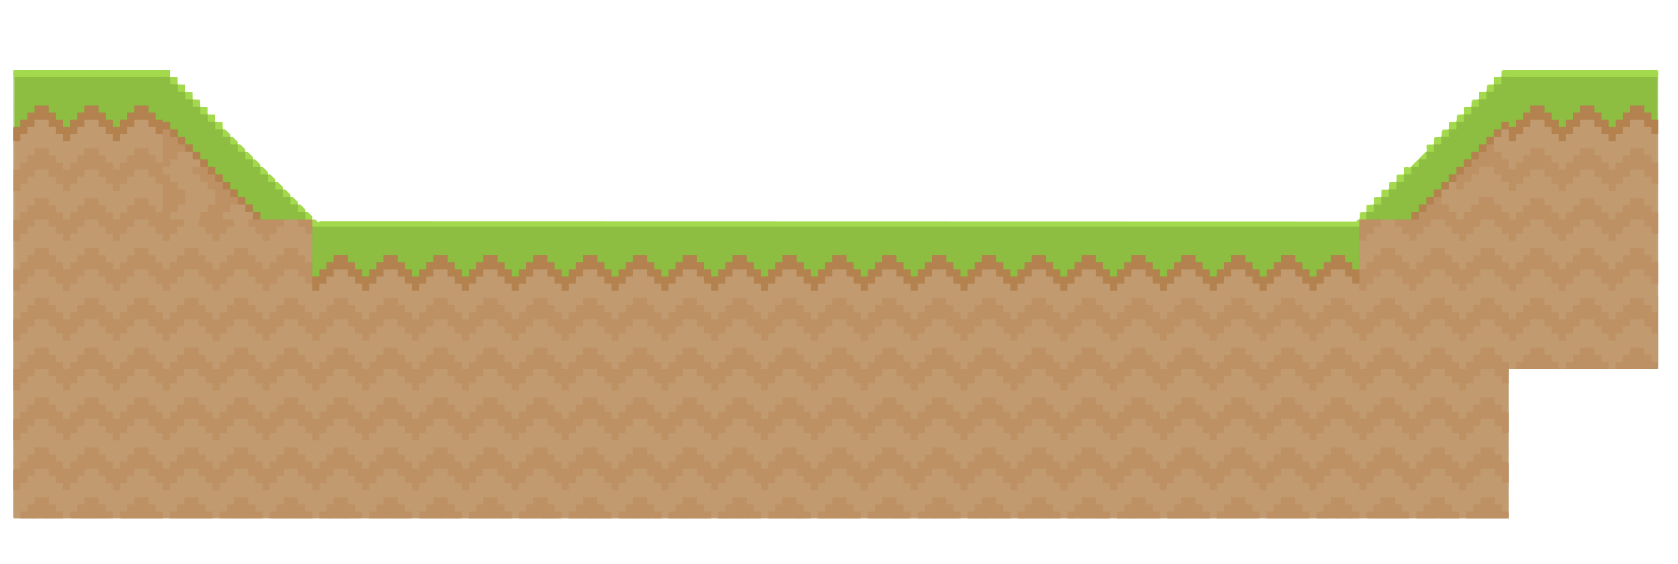
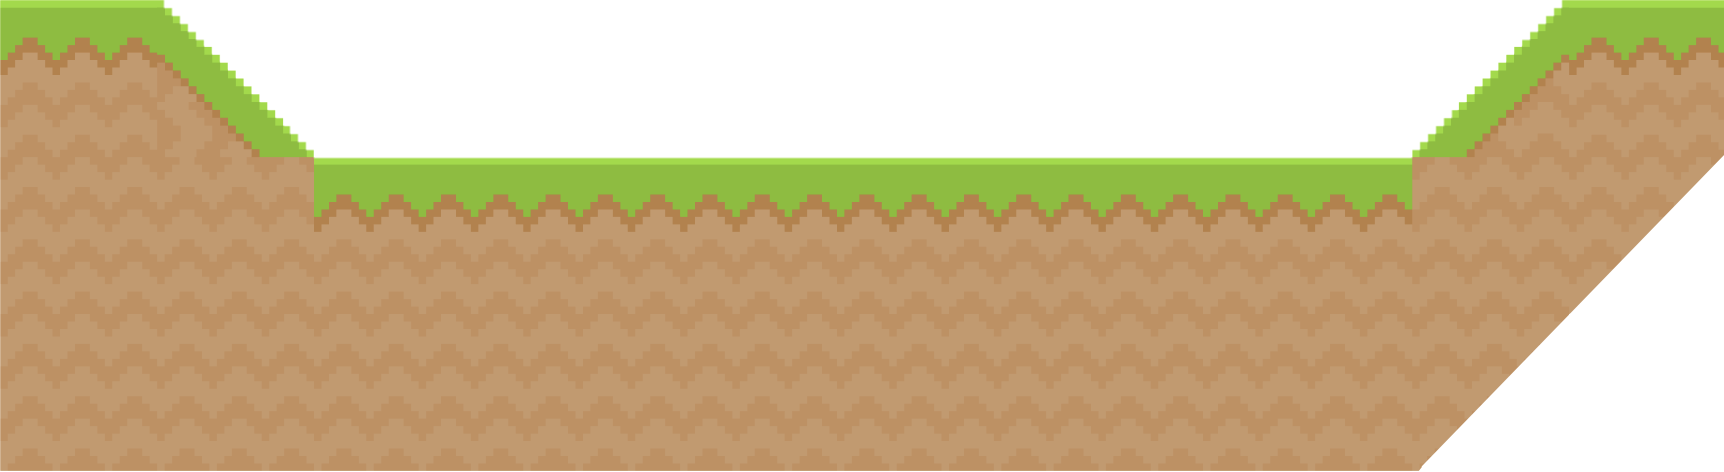
ajout des pieces et du compteur

Changed region(s): [[0.0, 0.0, 1.0, 1.0], [0.8987, 0.3856, 0.9917, 0.7119]]

diff --git a/app.js b/app.js
@@ -1,51 +1,85 @@
 let joueur;
 let sol = true;
-
+let bg;
+let pieceImg;
+let pieces = [];
+let piecesRecuperees = 0;
 function resetSaut() {
     sol = true;
 }
 
+function preload() {
+    bg = loadImage('./img/background.png');
+    pieceImg = loadImage('./img/piece.png');
+
+    joueur = new Sprite(50, 100, 34.5, 50);
+    joueur.image = './img/joueur.png';
+    joueur.rotationLock = true;
+    joueur.friction = 0;
+    joueur.image.scale = 2;
+    joueur.debug = true;
+}
 
 function setup() {
     new Canvas(1400, 788);
-    background('white');
+    world.gravity.y = 12;
 
-    world.gravity.y = 80;
+    const bordure_gauche = new Sprite();
+    bordure_gauche.width = 1;
+    bordure_gauche.height = 3000;
+    bordure_gauche.x = 0;
+    bordure_gauche.y = 0;
+    bordure_gauche.collider = 'static';
 
+    const bordure_droite = new Sprite();
+    bordure_droite.width = 1;
+    bordure_droite.height = 3000;
+    bordure_droite.x = 1400;
+    bordure_droite.y = 0;
+    bordure_droite.collider = 'static';
 
-    const terre_gauche = new Sprite
-        ([[0, 257], [0, 521], [66, 521], [66, 455], [132, 455], [132, 389], [198, 389], [198, 191], [132, 191], [66, 257], [0, 257]]);
+    const terre_gauche = new Sprite([[0, 257], [0, 521], [66, 521], [66, 455], [132, 455], [132, 389], [198, 389], [198, 191], [132, 191], [66, 257], [0, 257]]);
     terre_gauche.collider = 'static';
     terre_gauche.image = './img/terre_gauche.png';
     terre_gauche.image.scale = 0.36;
 
-    const terre_millieu = new Sprite
-        ([[304, 191], [304, 389], [898, 389], [1030, 257], [1030, 191], [964, 191], [898, 257], [436, 257], [370, 191], [304, 191]]);
+    const terre_millieu = new Sprite([[304, 191], [304, 389], [898, 389], [1030, 257], [1030, 191], [964, 191], [898, 257], [436, 257], [370, 191], [304, 191]]);
     terre_millieu.collider = 'static';
-    terre_millieu.image = './img/terre_millieu_coupe.png';
-    terre_millieu.image.scale = 0.45;
+    terre_millieu.image = './img/terre_millieu.png';
+    terre_millieu.image.scale = 0.42;
+    terre_millieu.debug = true;
 
-    const tunnel = new Sprite
-        ([[1400, 323], [1334, 323], [1268, 389], [1070, 389], [1004, 455], [542, 455], [542, 521], [1070, 521], [1070, 455], [1400, 455], [1400, 323]]);
+    const tunnel = new Sprite([[1400, 323], [1334, 323], [1268, 389], [1070, 389], [1004, 455], [542, 455], [542, 521], [1070, 521], [1070, 455], [1400, 455], [1400, 323]]);
     tunnel.collider = 'static';
-    tunnel.image = './img/tunnel.png';
+    tunnel.image = './img/tutu.png';
+    tunnel.image.scale = 0.55;
+    tunnel.debug = true;
 
-
-    const cave_gauche = new Sprite
-        ([[0, 656], [0, 788], [66, 788], [66, 656], [0, 656]]);
+    const cave_gauche = new Sprite([[0, 656], [0, 788], [66, 788], [66, 656], [0, 656]]);
     cave_gauche.collider = 'static';
+    cave_gauche.image = './img/cave_gauche.png';
+    cave_gauche.image.scale = 0.15;
 
-    const cave_droite = new Sprite
-        ([[1049, 656], [1049, 788], [1400, 788], [1400, 722], [1115, 722], [1049, 656]]);
+    const cave_droite = new Sprite([[1049, 656], [1049, 788], [1400, 788], [1400, 722], [1115, 722], [1049, 656]]);
     cave_droite.collider = 'static';
+    cave_droite.image = './img/cave_droite.png';
+    cave_droite.image.scale = 0.35;
+    cave_droite.debug = true;
 
     const cave_millieu = new Sprite();
-
     cave_millieu.width = 462;
     cave_millieu.height = 132;
     cave_millieu.x = 384;
     cave_millieu.y = 723;
     cave_millieu.collider = 'static';
+    cave_millieu.image = './img/cave_millieu.png';
+    cave_millieu.image.scale = 0.35;
+
+    let balancoire = new Sprite([[1106, 224], [1298, 224], [1298, 190], [1106, 190], [1106, 224]]);
+    balancoire.collider = 'static';
+    balancoire.image = './img/balancoire.png';
+    balancoire.image.scale = 0.2;
+    balancoire.debug = true;
 
     const bloc_cave = new Sprite();
     const bloc_cave2 = new Sprite();
@@ -72,11 +106,36 @@ function setup() {
     bloc_cave3.collider = 'static';
     bloc_cave3.image = './img/bloc_cave.png';
 
-    joueur = new Sprite();
-    joueur.x = 20;
-    joueur.y = 200;
-    joueur.d = 40;
-    joueur.color = 'blue';
+    let piece1 = new Sprite(1280, 170, 25);
+    let piece2 = new Sprite(670, 236, 25);
+    let piece3 = new Sprite(30, 633, 25);
+    let piece4 = new Sprite(827, 633, 25);
+    let piece5 = new Sprite(1375, 700, 25);
+
+    piece1.image = pieceImg;
+    piece1.image.scale = 2;
+    piece1.collider = 'static';
+    pieces.push(piece1);
+
+    piece2.image = pieceImg;
+    piece2.image.scale = 2;
+    piece2.collider = 'static';
+    pieces.push(piece2);
+
+    piece3.image = pieceImg;
+    piece3.image.scale = 2;
+    piece3.collider = 'static';
+    pieces.push(piece3);
+
+    piece4.image = pieceImg;
+    piece4.image.scale = 2;
+    piece4.collider = 'static';
+    pieces.push(piece4);
+
+    piece5.image = pieceImg;
+    piece5.image.scale = 2;
+    piece5.collider = 'static';
+    pieces.push(piece5);
 
     joueur.collides(terre_gauche, resetSaut);
     joueur.collides(terre_millieu, resetSaut);
@@ -87,14 +146,12 @@ function setup() {
     joueur.collides(bloc_cave, resetSaut);
     joueur.collides(bloc_cave2, resetSaut);
     joueur.collides(bloc_cave3, resetSaut);
-
-
+    joueur.collides(balancoire, resetSaut);
 }
 
 function draw() {
-    background('white')
+    background(bg);
 
-    controle()
+    pieceRecup();
+    controle();
 }
-
-

diff --git a/joueur.js b/joueur.js
@@ -1,16 +1,19 @@
+
+
+
 function controle() {
     if (kb.pressing('left')) {
-        joueur.direction = 180;
-        joueur.speed = 3;
+        joueur.vel.x = -3;
+        joueur.mirror.x = true;
     } else if (kb.pressing('right')) {
-        joueur.direction = 0;
-        joueur.speed = 3;
+        joueur.vel.x = 3;
+        joueur.mirror.x = false;
     } else {
-        joueur.speed = 0;
+        joueur.vel.x = 0;
     }
 
     if (kb.presses('spacebar') && sol) {
-        joueur.velocity.y = -40;
+        joueur.velocity.y = -3;
         sol = false;
     }
 }

diff --git a/piece.js b/piece.js
@@ -1,0 +1,14 @@
+function pieceRecup() {
+
+    for (let i = pieces.length - 1; i >= 0; i--) {
+        if (joueur.overlap(pieces[i])) {
+            pieces[i].remove();
+            pieces.splice(i, 1);
+            piecesRecuperees++;
+        }
+    }
+
+    fill(0);
+    textSize(32);
+    text(`Pièces : ${piecesRecuperees} / 5`, 20, 40);
+}

diff --git a/index.html b/index.html
@@ -16,6 +16,8 @@
 
     <script src="https://p5play.org/v3/p5play.js"></script>
     <script src="joueur.js"></script>
+    <script src="piece.js"></script>
+
     <script src="app.js"></script>
 </body>
 
